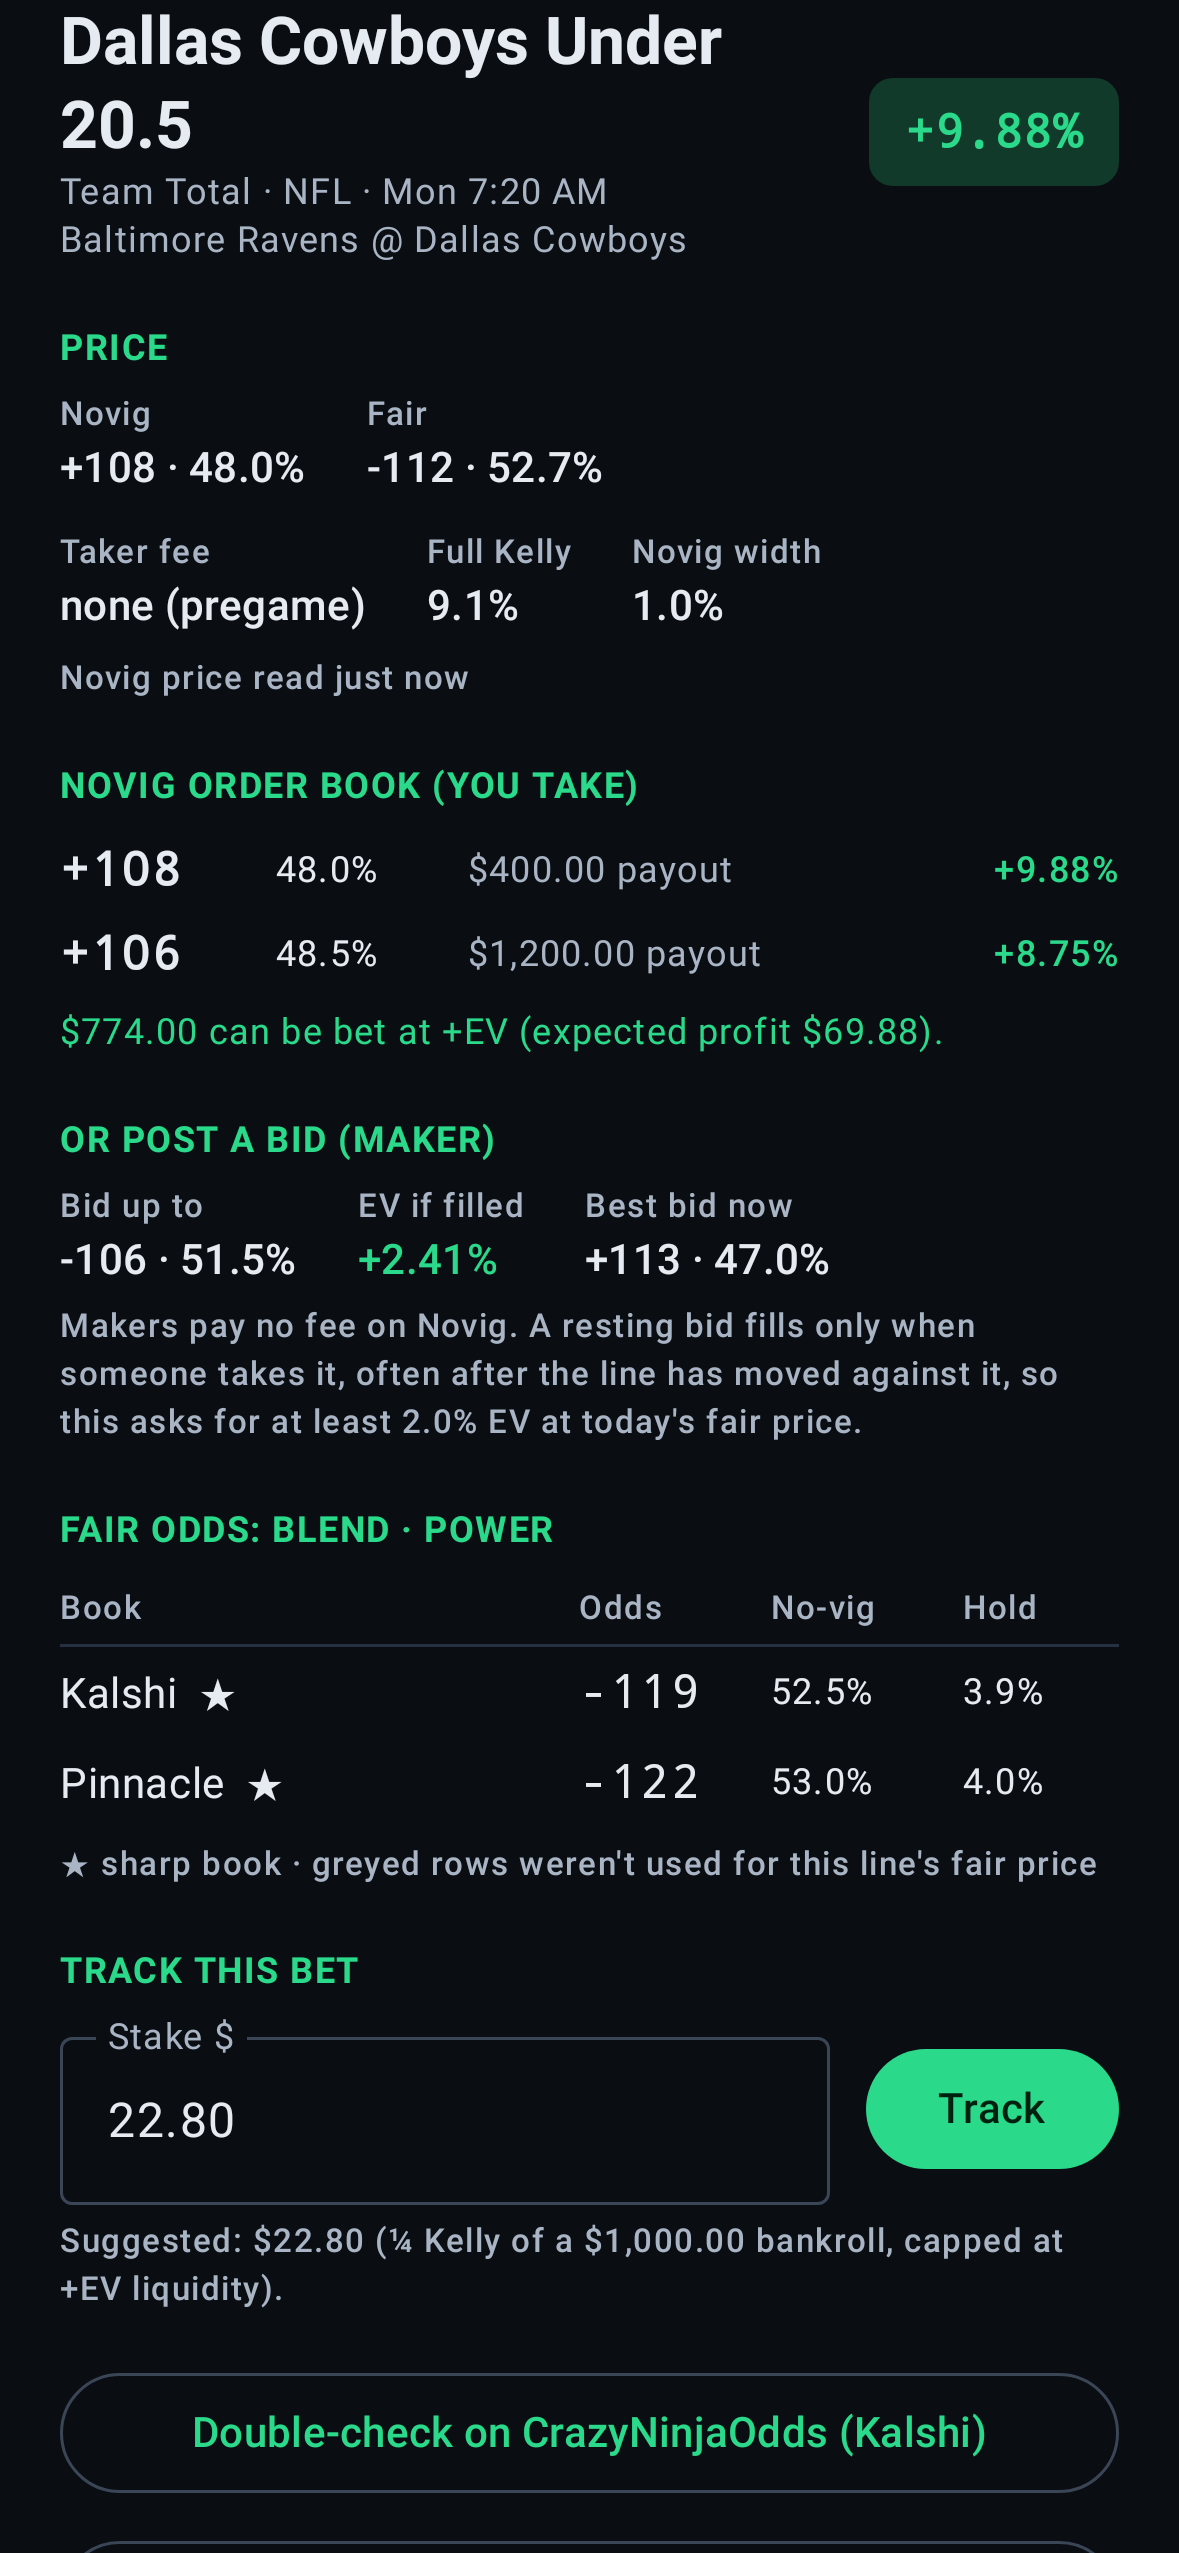
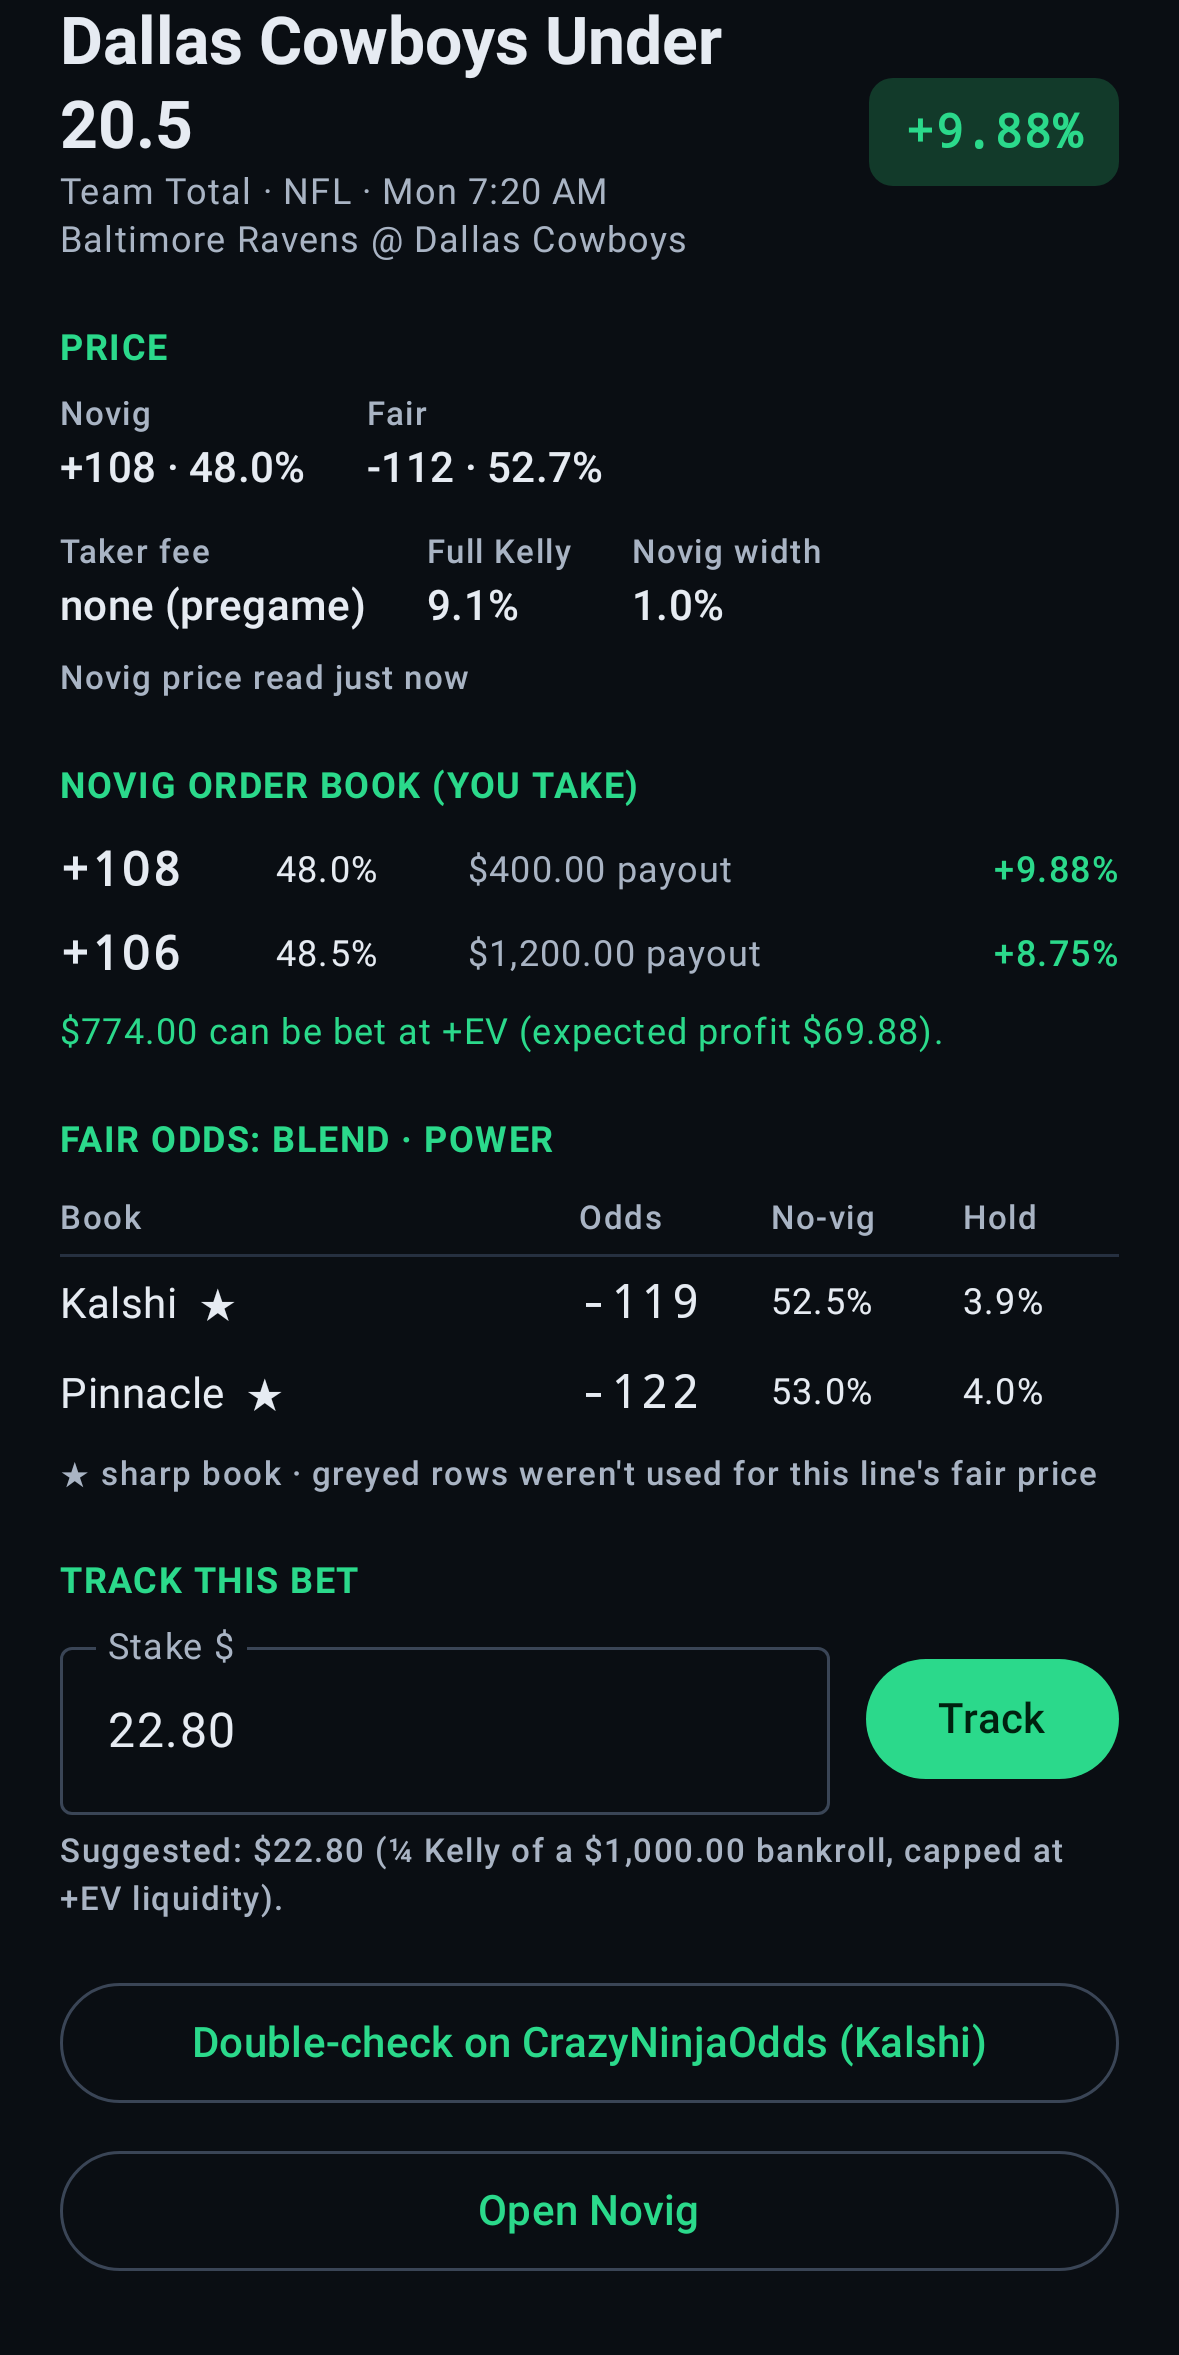
auto-checkpoint: 2026-09-26T02:10:23Z
Automatic hook checkpoint — not a reviewed commit. See CHECKPOINT.md
for where the session actually stands.

diff --git a/app/src/test/kotlin/com/tjshea/vigilant/app/ScreenshotTest.kt b/app/src/test/kotlin/com/tjshea/vigilant/app/ScreenshotTest.kt
@@ -179,14 +179,22 @@ class ScreenshotTest {
     }
 
     @Config(qualifiers = "w393dp-h2000dp-xxhdpi")
-    @Test fun detailFull() {
+    @Test fun detailMaker() {
         val s = SampleScan.state()
-        shoot("2b_detail_full") { OpportunityDetail(s.feed.first(), s.settings, onRecheck = {}) {} }
+        // A line that isn't +EV to take: the sheet suggests a maker bid instead.
+        val o = s.result!!.opportunities.first { it.quote != null && it.makerBid(0.02) != null && it.fair?.perBook?.any { b -> b.book.bookKey == "pinnacle" } == true }
+        shoot("2b_detail_maker") { OpportunityDetail(o, s.settings, onRecheck = {}) {} }
         compose.onNodeWithText("OR POST A BID (MAKER)").assertExists()
         compose.onNodeWithText("Bid up to").assertExists()
-        compose.onNodeWithText("Double-check on CrazyNinjaOdds (Pinnacle)").assertExists()
+        compose.onNodeWithText("Double-check on CrazyNinjaOdds (", substring = true).assertExists()
         compose.onNodeWithText("Recheck price").assertExists()
         compose.onNodeWithText("Novig price read just now", substring = true).assertExists()
+    }
+
+    @Test fun aBetAlreadyCheapToTakeGetsNoMakerSuggestion() {
+        val s = SampleScan.state()
+        screen { OpportunityDetail(s.feed.first(), s.settings) {} }
+        compose.onAllNodesWithText("OR POST A BID (MAKER)").assertCountEquals(0)
     }
 
     @Config(qualifiers = "w393dp-h4400dp-xxhdpi")

diff --git a/data/src/main/kotlin/com/tjshea/vigilant/data/scanner/Pricing.kt b/data/src/main/kotlin/com/tjshea/vigilant/data/scanner/Pricing.kt
@@ -56,9 +56,14 @@ data class Opportunity(
 
     /**
      * Where to post a resting order instead of taking: the highest price that still makes
-     * [minEvPercent] if it fills. Makers pay no fee on Novig.
+     * [minEvPercent] if it fills. Makers pay no fee on Novig. Null when taking right now is
+     * already as cheap: there's no reason to wait for a fill at a worse price.
      */
-    fun makerBid(minEvPercent: Double): MakerBid? = fairProbability?.let { EvMath.makerBid(it, minEvPercent) }
+    fun makerBid(minEvPercent: Double): MakerBid? {
+        val bid = fairProbability?.let { EvMath.makerBid(it, minEvPercent) } ?: return null
+        val take = quote?.cost
+        return bid.takeIf { take == null || take > bid.price + 1e-9 }
+    }
 
     /** Novig's price for this line was read more than [Pricing.OLD_PRICE_MS] before [now]. */
     fun priceIsOld(now: Long): Boolean = bookFetchedAtMs == null || now - bookFetchedAtMs > Pricing.OLD_PRICE_MS

diff --git a/data/src/test/kotlin/com/tjshea/vigilant/data/scanner/ResearchFeaturesTest.kt b/data/src/test/kotlin/com/tjshea/vigilant/data/scanner/ResearchFeaturesTest.kt
@@ -78,6 +78,10 @@ class ResearchFeaturesTest {
         assertTrue(bid.evPercent >= 0.02)
         // One grid step higher would miss the 2% target.
         assertTrue(fair / (bid.price + 0.005) - 1 < 0.02)
+        // Taking at 0.385 is already at least as cheap as any 2% bid: no maker suggestion.
+        val cheap = price(balBid = 615 + 200).dal()
+        assertTrue(cheap.quote!!.cost <= cheap.fairProbability!! / 1.02)
+        assertNull(cheap.makerBid(0.02))
     }
 
     @Test
